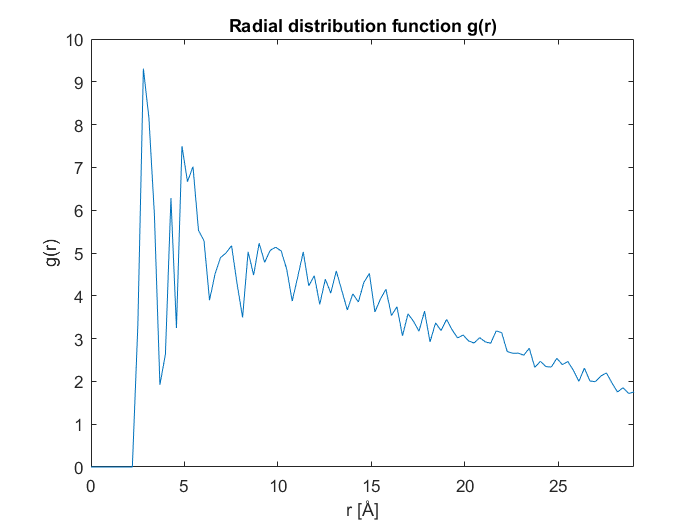
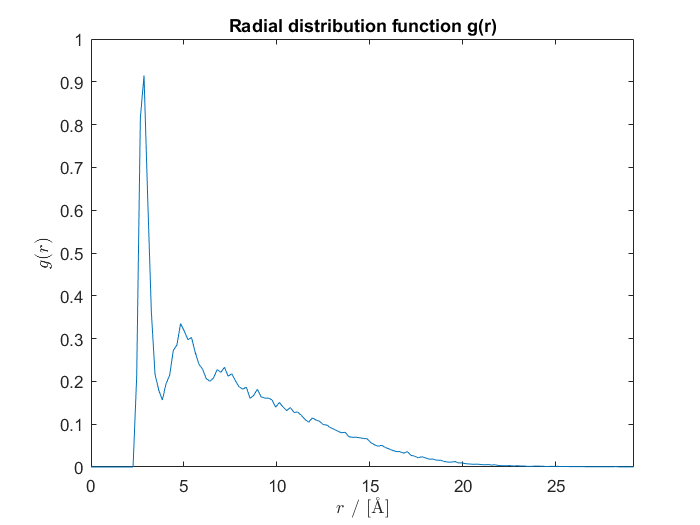
FIXED BUG IN 7

diff --git a/code/Task7/MD_main_tmp.c b/code/Task7/MD_main_tmp.c
@@ -199,64 +199,45 @@ int main()
         bins2[i]=0;
     }
 
-    for (int i = 1; i < nbr_of_timesteps; i++)
-    {
+
+    /* Simulation after equilibrium*/
+    for (int i = 1; i < nbr_of_timesteps; i++) {
+
         /** Verlet algorithm **/
         /* Half step for velocity */
-        for (int j = 0; j < nbr_of_particles; j++){
-            for (int k = 0; k < nbr_of_dimensions; k++){
+
+        printf("jag hann komma hit1\n");
+        for (int j = 0; j < nbr_of_particles; j++) {
+            for (int k = 0; k < nbr_of_dimensions; k++) {
                 v[j][k] += timestep * 0.5 * f[j][k]/m_AL;
             }
         }
-
+        printf("jag hann komma hit2\n");
         /* Update displacement*/
-        for (int j = 0; j < nbr_of_particles; j++){
-            for (int k = 0; k < nbr_of_dimensions; k++){
+        for (int j = 0; j < nbr_of_particles; j++) {
+            for (int k = 0; k < nbr_of_dimensions; k++) {
                 q[j][k] += timestep * v[j][k];
-                q[j][k] = boundary_condition(q[j][k],cell_length);
             }
         }
+        printf("jag hann komma hit3\n");
+        /* Update Forces */
+        get_forces_AL(f, q, cell_length, nbr_of_particles);
 
-        /* Forces */
-        get_forces_AL(f,q,cell_length,nbr_of_particles);
-
+        printf("jag hann komma hit4\n");
         /* Final velocity*/
-        for (int j = 0; j < nbr_of_particles; j++){
-            for (int k = 0; k < nbr_of_dimensions; k++){
+        for (int j = 0; j < nbr_of_particles; j++) {
+            for (int k = 0; k < nbr_of_dimensions; k++) {
                 v[j][k] += timestep * 0.5 * f[j][k]/m_AL;
             }
         }
-
-        /* Calculate energy */
-        // Potential energy
-        energy[i] = get_energy_AL(q,cell_length,nbr_of_particles);
-        // Kinetic energy
-        energy_kin[i] = get_kinetic_AL(v,nbr_of_dimensions,nbr_of_particles,m_AL);
-
-        virial[i]=get_virial_AL(q,cell_length,nbr_of_particles);
-
-        /* Save current displacements to array*/
-        for (int j = 0; j < nbr_of_particles; j++){
-            for (int k = 0; k < nbr_of_dimensions; k++){
-                qq(i,j,k)=q[j][k];
-            }
-        }
-    }
-
-
-    // COPY OVER THIS TODO
-    // Create Histogram
-
-    printf("Debug");
-
-    for (int i = 1; i < nbr_of_timesteps; i++)
-    {
+        printf("jag hann komma hit5\n");
         for (int j = 1 ; j < nbr_of_particles; j++) {
             for (int k = j+1 ; k < nbr_of_particles; k++) {
                 double sum =  0;
+                printf("j: %i\t k: %i \n",j,k );
                 for (int d = 0; d < nbr_of_dimensions; d++) {
-                    double q1 = qq(i,j,d);
-                    double q2 = qq(i,k,d);
+                    double q1 = q[j][d];
+                    double q2 = q[k][d];
                     q1=boundary_condition(q1,cell_length);
                     q2=boundary_condition(q2,cell_length);
 
@@ -265,11 +246,24 @@ int main()
                 sum = sqrt(sum);
                 int bin = get_bin(sum,min,max,d_r);
                 if (bin >= k_bins)
-                    printf("Fuck");
+                    printf("%i \n", bin );
+                printf("j: %i\t k: %i \n",j,k );
+                bins[bin]++;
                 bins2[bin]++;
+                printf("j: %i\t k: %i \n",j,k );
             }
+            printf("New row\n");
         }
-    }
+        printf("jag hann komma hit\n");
+    } // equilibration/simulation
+
+
+    // COPY OVER THIS TODO
+    // Create Histogram
+
+    printf("Debug");
+
+
     double Nideal[k_bins];
     double factor =((double)(nbr_of_particles-1.0))/volume * 4.0*PI/3.0;
     for (int i = 0; i < k_bins; i++) {
@@ -282,7 +276,7 @@ int main()
     /* Save data to file*/
     file = fopen("histogram.dat","w");
     for (int i = 0; i < k_bins; i ++) {
-        fprintf(file, "%e \t %i \t %i \t %e \n",d_r*(i-0.5), bins[i],bins2[i], Nideal[i]);
+        fprintf(file, "%e \t %i \t %e \n",d_r*(i-0.5), bins[i],binsi[2], Nideal[i]);
     }
     fclose(file);
     // TO THIS ISH TODO

diff --git a/code/Task1/MD_main.c b/code/Task1/MD_main.c
@@ -117,7 +117,6 @@ int main()
         for (int j = 0; j < nbr_of_particles; j++){
             for (int k = 0; k < nbr_of_dimensions; k++){
                 q[j][k] += timestep * v[j][k];
-                q[j][k] = boundary_condition(q[j][k],cell_length);
             }
         }
 

diff --git a/code/Task7/plot_histogram.m b/code/Task7/plot_histogram.m
@@ -10,7 +10,7 @@ figure;
 
 
 
-g=data(:,2)./data(:,3)/256;
+g=data(:,3)./data(:,4);
 
 
 plot(data(:,1),g)
